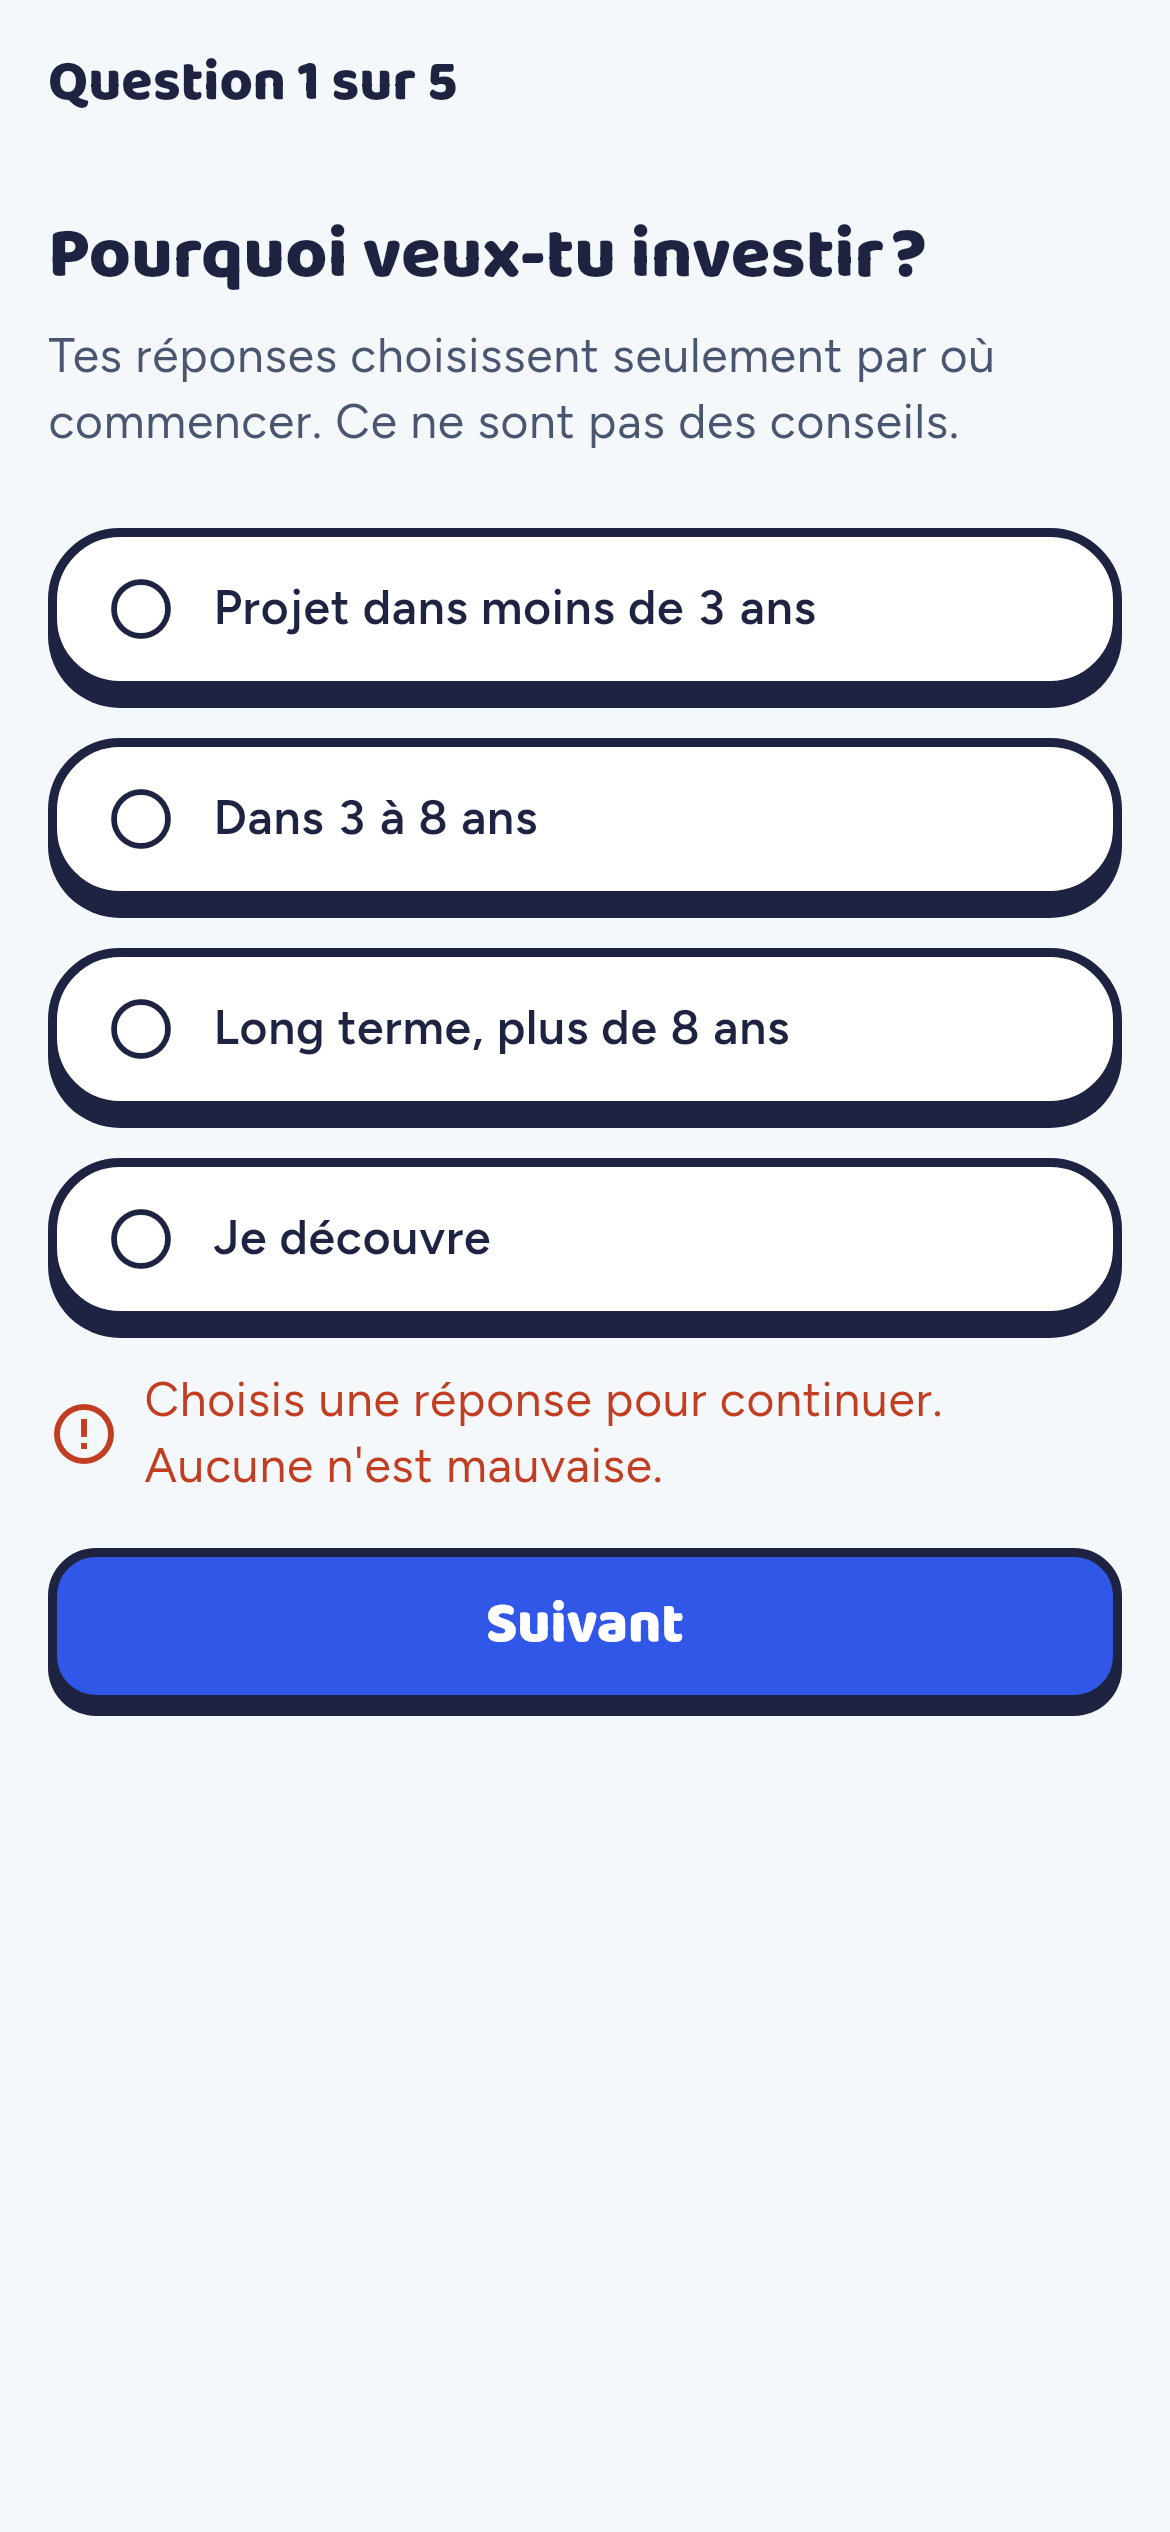
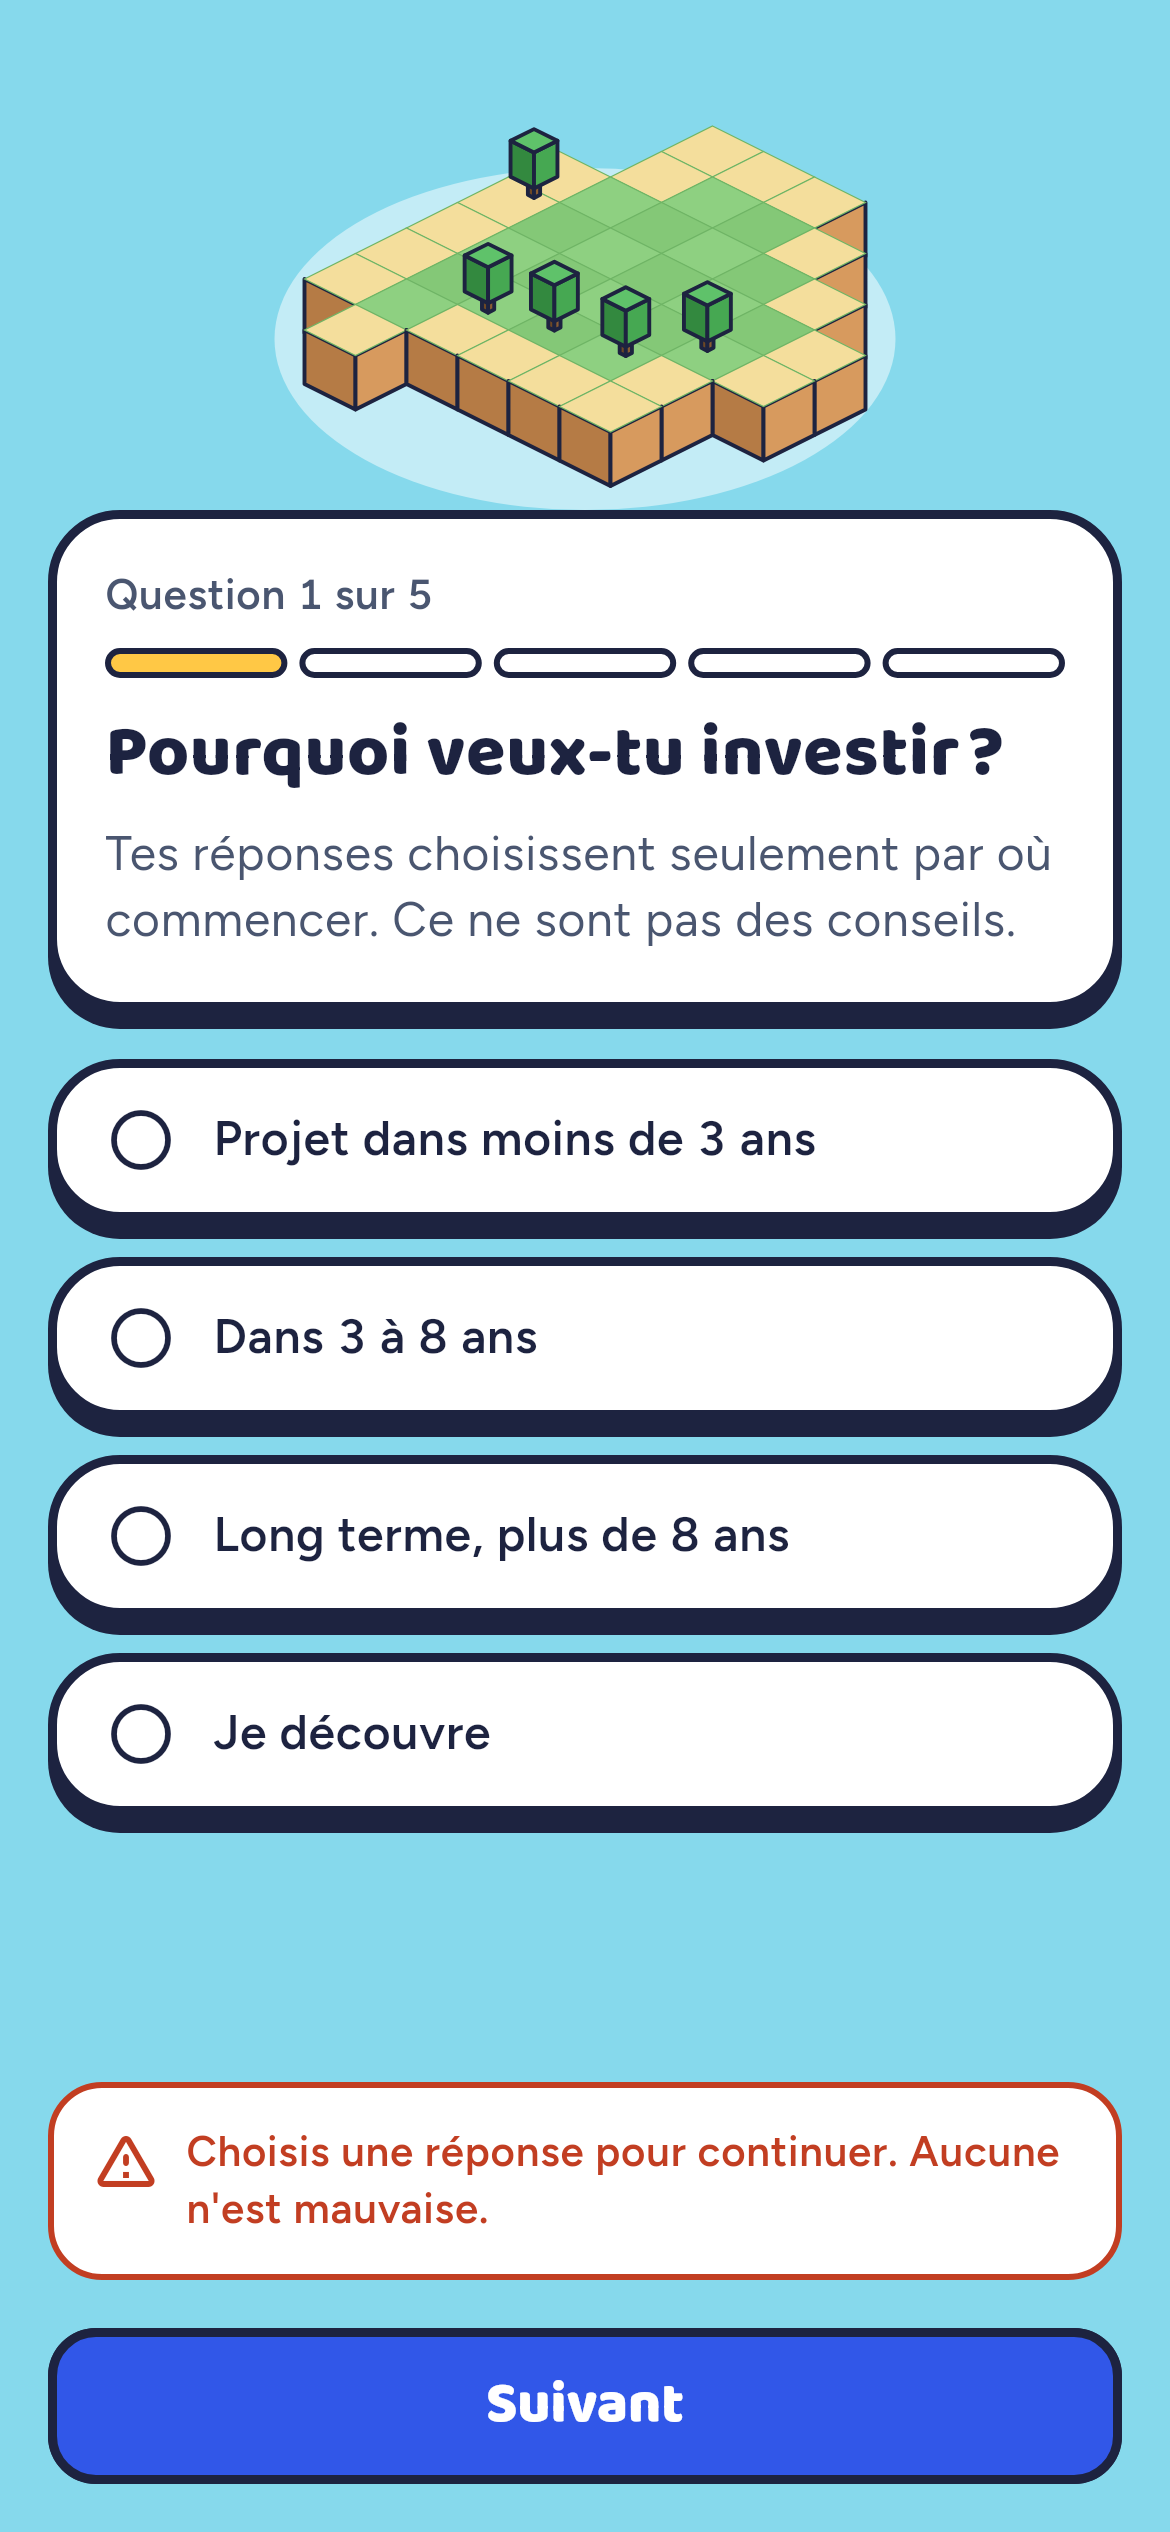
M9-16: Onboarding follows the art direction

diff --git a/app/lib/presentation/features/onboarding/onboarding_screen.dart b/app/lib/presentation/features/onboarding/onboarding_screen.dart
@@ -1,4 +1,5 @@
 import 'package:flutter/material.dart';
+import 'package:flutter/services.dart';
 import 'package:flutter_riverpod/flutter_riverpod.dart';
 import 'package:go_router/go_router.dart';
 
@@ -6,50 +7,60 @@ import '../../../application/learning/content.dart';
 import '../../../application/onboarding/onboarding_controller.dart';
 import '../../../core/failure.dart';
 import '../../../core/l10n/app_localizations.dart';
+import '../../../core/theme/app_theme.dart';
 import '../../../core/theme/tokens.dart';
 import '../../../core/widgets/async_states.dart';
 import '../../../core/widgets/chunky.dart';
 import '../../../domain/learning/profile.dart';
 import '../../../domain/learning/profile_rules.dart';
+import '../map/archipelago.dart';
 
-/// Five questions, then where the path starts and why (BRIEF §4.1).
+/// Five questions, then where the path starts and why (BRIEF §4.1), on the
+/// sea under the island, as the art direction's « onboarding question »
+/// draws it.
 class OnboardingScreen extends ConsumerWidget {
   const OnboardingScreen({super.key});
 
   @override
   Widget build(BuildContext context, WidgetRef ref) {
-    final l10n = AppLocalizations.of(context);
     final state = ref.watch(onboardingControllerProvider);
-    final controller = ref.read(onboardingControllerProvider.notifier);
-    final current = state.value;
-    final asking = current != null && !current.done;
-
     return Scaffold(
-      appBar: AppBar(
-        automaticallyImplyLeading: false,
-        leading: asking && current.question > 0
-            ? BackButton(onPressed: controller.back)
-            : null,
-        title: asking
-            ? Text(l10n.onboarding_progress(current.question + 1))
-            : null,
-      ),
-      body: SafeArea(
-        child: switch (state) {
-          AsyncData(:final value) when value.done => _Result(value),
-          AsyncData(:final value) => _Question(value),
-          AsyncError(:final error) => ErrorView(
-            failure: error is Failure ? error : const StorageFailure(),
-            onRetry: () => ref.invalidate(onboardingControllerProvider),
-          ),
-          _ => const Padding(
-            padding: EdgeInsets.all(AppSpace.screenPadding),
-            child: AsyncSkeleton(lines: 5),
-          ),
-        },
+      // World screens sit on the sea (BRIEF §10.2).
+      backgroundColor: AppColors.sea,
+      body: AnnotatedRegion<SystemUiOverlayStyle>(
+        value: SystemUiOverlayStyle.dark,
+        child: SafeArea(
+          child: switch (state) {
+            AsyncData(:final value) when value.done => _Result(value),
+            AsyncData(:final value) => _Question(value),
+            AsyncError(:final error) => ErrorView(
+              failure: error is Failure ? error : const StorageFailure(),
+              onRetry: () => ref.invalidate(onboardingControllerProvider),
+            ),
+            _ => const Padding(
+              padding: EdgeInsets.all(AppSpace.screenPadding),
+              child: AsyncSkeleton(lines: 5),
+            ),
+          },
+        ),
       ),
     );
   }
+}
+
+/// Actions & ETF as the map paints it, bare: where the path will start.
+class _Island extends StatelessWidget {
+  const _Island();
+
+  @override
+  Widget build(BuildContext context) => SizedBox(
+    height: 170,
+    child: CustomPaint(
+      painter: ArchipelagoPainter(
+        only: archipelago.firstWhere((i) => i.id == IslandId.actionsEtf),
+      ),
+    ),
+  );
 }
 
 class _Question extends ConsumerWidget {
@@ -62,40 +73,131 @@ class _Question extends ConsumerWidget {
     final l10n = AppLocalizations.of(context);
     final controller = ref.read(onboardingControllerProvider.notifier);
     final chosen = state.answers[state.question];
+    final questions = onboardingQuestions.length;
 
-    return ListView(
-      padding: const EdgeInsets.all(AppSpace.screenPadding),
+    return Column(
+      crossAxisAlignment: CrossAxisAlignment.stretch,
       children: [
-        Text(
-          questionTitle(l10n, state.question),
-          style: Theme.of(context).textTheme.headlineMedium,
-        ),
-        const SizedBox(height: AppSpace.x2),
-        Text(
-          l10n.onboarding_reassurance,
-          style: Theme.of(context).textTheme.bodyMedium
-              ?.copyWith(color: AppColors.muted),
-        ),
-        const SizedBox(height: AppSpace.x6),
-        for (final answer in onboardingQuestions[state.question]) ...[
-          ChunkyChoice(
-            label: answerLabel(l10n, answer),
-            selected: answer == chosen,
-            onTap: () => controller.choose(answer),
+        Expanded(
+          child: ListView(
+            padding: const EdgeInsets.symmetric(
+              horizontal: AppSpace.screenPadding,
+            ),
+            children: [
+              const _Island(),
+              ChunkyCard(
+                child: Column(
+                  crossAxisAlignment: CrossAxisAlignment.stretch,
+                  children: [
+                    Text(
+                      l10n.onboarding_progress(state.question + 1),
+                      style: AppText.label.copyWith(color: AppColors.muted),
+                    ),
+                    const SizedBox(height: AppSpace.x2),
+                    ExcludeSemantics(
+                      child: _Steps(done: state.question + 1, of: questions),
+                    ),
+                    const SizedBox(height: AppSpace.x3),
+                    Text(
+                      questionTitle(l10n, state.question),
+                      style: AppText.title,
+                    ),
+                    const SizedBox(height: AppSpace.x2),
+                    Text(
+                      l10n.onboarding_reassurance,
+                      style: Theme.of(context).textTheme.bodyMedium
+                          ?.copyWith(color: AppColors.muted),
+                    ),
+                  ],
+                ),
+              ),
+              const SizedBox(height: AppSpace.x4),
+              for (final answer in onboardingQuestions[state.question]) ...[
+                ChunkyChoice(
+                  label: answerLabel(l10n, answer),
+                  selected: answer == chosen,
+                  onTap: () => controller.choose(answer),
+                ),
+                const SizedBox(height: AppSpace.x3),
+              ],
+            ],
           ),
-          const SizedBox(height: AppSpace.x4),
-        ],
-        if (state.showError)
-          _ValidationMessage(l10n.onboarding_error)
-        else if (state.saveError case final failure?)
-          ErrorView(failure: failure, onRetry: controller.retrySave),
-        const SizedBox(height: AppSpace.x4),
-        ChunkyButton(label: l10n.onboarding_next, onPressed: controller.next),
+        ),
+        // Always in reach, however long the question; a missing answer is
+        // said where « Suivant » was tapped.
+        Padding(
+          padding: const EdgeInsets.fromLTRB(
+            AppSpace.screenPadding,
+            AppSpace.x2,
+            AppSpace.screenPadding,
+            AppSpace.screenPadding,
+          ),
+          child: Column(
+            crossAxisAlignment: CrossAxisAlignment.stretch,
+            children: [
+              if (state.showError) ...[
+                _ValidationMessage(l10n.onboarding_error),
+                const SizedBox(height: AppSpace.x3),
+              ] else if (state.saveError case final failure?) ...[
+                ErrorView(failure: failure, onRetry: controller.retrySave),
+                const SizedBox(height: AppSpace.x3),
+              ],
+              Row(
+                children: [
+                  if (state.question > 0) ...[
+                    Expanded(
+                      child: ChunkyButton(
+                        label: l10n.onboarding_back,
+                        kind: ChunkyButtonKind.secondary,
+                        onPressed: controller.back,
+                      ),
+                    ),
+                    const SizedBox(width: AppSpace.x3),
+                  ],
+                  Expanded(
+                    child: ChunkyButton(
+                      label: l10n.onboarding_next,
+                      onPressed: controller.next,
+                    ),
+                  ),
+                ],
+              ),
+            ],
+          ),
+        ),
       ],
     );
   }
 }
 
+/// One segment per question, the ones reached filled.
+class _Steps extends StatelessWidget {
+  const _Steps({required this.done, required this.of});
+
+  final int done;
+  final int of;
+
+  @override
+  Widget build(BuildContext context) => Row(
+    children: [
+      for (var i = 0; i < of; i++) ...[
+        if (i > 0) const SizedBox(width: AppSpace.x1),
+        Expanded(
+          child: Container(
+            height: 10,
+            decoration: BoxDecoration(
+              color: i < done ? AppColors.progress : AppColors.surface,
+              borderRadius: BorderRadius.circular(AppSpace.x2),
+              border: Border.all(color: AppColors.ink, width: 2),
+            ),
+          ),
+        ),
+      ],
+    ],
+  );
+}
+
+/// A missing answer, in an alert box.
 class _ValidationMessage extends StatelessWidget {
   const _ValidationMessage(this.text);
 
@@ -104,20 +206,31 @@ class _ValidationMessage extends StatelessWidget {
   @override
   Widget build(BuildContext context) => Semantics(
     liveRegion: true,
-    child: Row(
-      children: [
-        const ExcludeSemantics(
-          child: Icon(Icons.error_outline, color: AppColors.alertText),
-        ),
-        const SizedBox(width: AppSpace.x2),
-        Expanded(
-          child: Text(
-            text,
-            style: Theme.of(context).textTheme.bodyMedium
-                ?.copyWith(color: AppColors.alertText),
+    child: Container(
+      padding: const EdgeInsets.all(AppSpace.x3),
+      decoration: BoxDecoration(
+        color: AppColors.surface,
+        borderRadius: BorderRadius.circular(AppShape.flatCardRadius),
+        border: Border.all(color: AppColors.alertText, width: 2),
+      ),
+      child: Row(
+        crossAxisAlignment: CrossAxisAlignment.start,
+        children: [
+          const ExcludeSemantics(
+            child: Icon(
+              Icons.warning_amber_rounded,
+              color: AppColors.alertText,
+            ),
           ),
-        ),
-      ],
+          const SizedBox(width: AppSpace.x2),
+          Expanded(
+            child: Text(
+              text,
+              style: AppText.label.copyWith(color: AppColors.alertText),
+            ),
+          ),
+        ],
+      ),
     ),
   );
 }
@@ -151,12 +264,25 @@ class _Result extends ConsumerWidget {
     );
 
     return ListView(
-      padding: const EdgeInsets.all(AppSpace.screenPadding),
+      padding: const EdgeInsets.symmetric(horizontal: AppSpace.screenPadding),
       children: [
+        const _Island(),
         ChunkyCard(
-          child: Text(
-            l10n.onboarding_result(start, answer),
-            style: Theme.of(context).textTheme.titleLarge,
+          child: Column(
+            crossAxisAlignment: CrossAxisAlignment.stretch,
+            children: [
+              Text(
+                l10n.onboarding_start_label,
+                style: AppText.label.copyWith(color: AppColors.primary),
+              ),
+              const SizedBox(height: AppSpace.x1),
+              Text(start, style: AppText.title),
+              const SizedBox(height: AppSpace.x2),
+              Text(
+                l10n.onboarding_result(start, answer),
+                style: Theme.of(context).textTheme.bodyLarge,
+              ),
+            ],
           ),
         ),
         const SizedBox(height: AppSpace.x6),
@@ -164,6 +290,7 @@ class _Result extends ConsumerWidget {
           label: l10n.onboarding_go,
           onPressed: () => context.go('/'),
         ),
+        const SizedBox(height: AppSpace.screenPadding),
       ],
     );
   }

diff --git a/app/test/presentation/features/onboarding_screen_test.dart b/app/test/presentation/features/onboarding_screen_test.dart
@@ -50,6 +50,8 @@ void main() {
       'Compte courant',
       '15${nbsp}min',
     ]) {
+      // Under the island, an answer may be below the fold.
+      await tester.scrollUntilVisible(find.text(answer), 100);
       await tester.tap(find.text(answer));
       await tester.pump();
       expect(
@@ -107,6 +109,8 @@ void main() {
       'Compte courant',
       '15${nbsp}min',
     ]) {
+      // Under the island, an answer may be below the fold.
+      await tester.scrollUntilVisible(find.text(answer), 100);
       await tester.tap(find.text(answer));
       await tester.pump();
       await tester.tap(find.text('Suivant'));

diff --git a/docs/BRIEF.md b/docs/BRIEF.md
@@ -97,6 +97,13 @@ Routing: `go_router`. Deep links use the routes above (lesson → trip wizard pr
 
 Five single-choice questions, each required (validation error if none picked: « Choisis une réponse pour
 continuer. Aucune n'est mauvaise. »). Reassurance line: the answers only choose a starting point, not advice.
+Layout (decided 2026-10-24, artboard `Onboarding-A` of the art direction canvas): a world screen on the
+sea under the bare Actions & ETF island. One chunky card holds « Question n sur 5 », a segmented progress
+bar, the question and the reassurance line; the answers are toy blocks under it (they press down, so they
+sit on the sea rather than inside the card). « Retour » (from the second question) and « Suivant » stay at
+the bottom, with the validation error in an alert box just above them. The result: the island, then a card
+« Ton point de départ » naming the starting node over the sentence that explains it. No « Passer »: every
+question is required.
 
 | # | Question (fr) | Options | Drives |
 |---|---|---|---|
